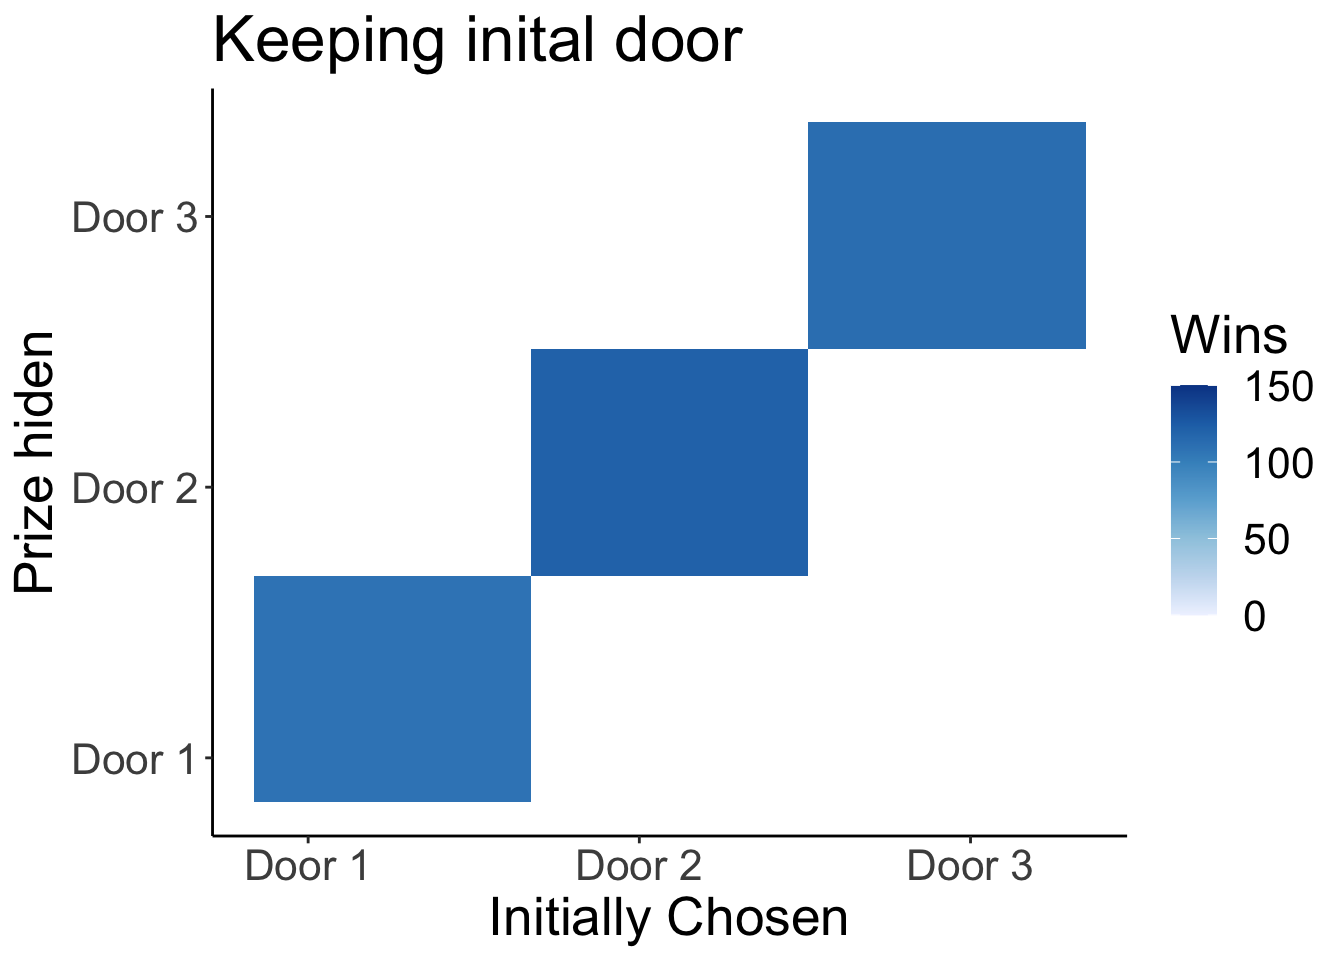
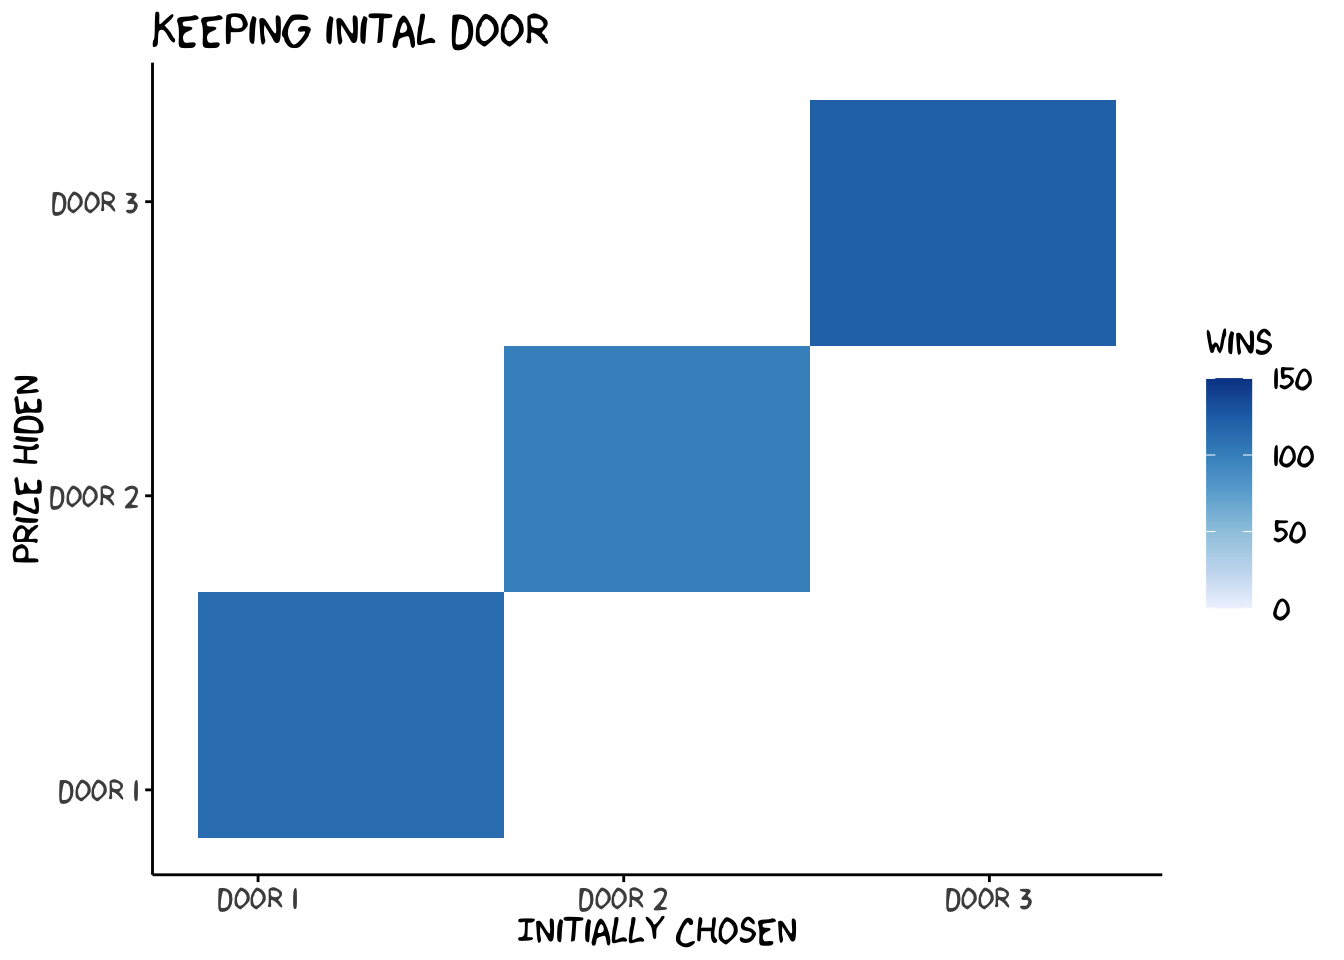
extended monty hall problem

diff --git a/docs/2020/10/05/the-monty-hall-problem/index.html b/docs/2020/10/05/the-monty-hall-problem/index.html
@@ -66,7 +66,7 @@
 
   <article class="article">
     
-    <span class="article-duration">2 min read</span>
+    <span class="article-duration">5 min read</span>
     
 
     <h1 class="article-title">The Monty Hall Problem</h1>
@@ -79,19 +79,28 @@
       
 
 
+<p>I discuss a solution to the Monty Hall Problem discussed in the lecture. There are many ways to think of this problem and a thorugh discussion can be found here: <a href="https://en.wikipedia.org/wiki/Monty_Hall_problem" class="uri">https://en.wikipedia.org/wiki/Monty_Hall_problem</a>.</p>
+<p>Game Rules:</p>
+<ol style="list-style-type: decimal">
+<li><p>Pick a door. One door has a prize behind it, say a car, the other two contain just “goats”. (Some people might prefer a goat over a car, me included. I just stick with the original formulation here, so let’s just say the goat is a symbol for not getting anything and the car a symbol for a prize we actually like to have).</p></li>
+<li><p>As there are two goats, no matter how you choose, there is at least one goat left among the two remaining doors. The host then reveals a goat behind one of the remaining doors. This means that the opened door is out of the game.</p></li>
+<li><p>The host offers you to switch doors. You decide whether you want to switch doors or stay with the one you chose. If you switch doors, there is just one door to choose from as one has been removed from the game at step 2.</p></li>
+</ol>
+<p><strong>What should you do?</strong></p>
+<p>Let us calculate the chances of winning for the two strategies “switching” and “staying”. We use the probabilities in the tree diagrams below. We have one tree diagram to calculate the “switch” strategy’s winning chance, and one for the “stay” strategy:</p>
+<div class="figure">
+<img src="/post/2020-10-05-the-monty-hall-problem_files/MontyHall.jpg" style="width:100.0%" alt="" />
+<p class="caption"><strong>Figure 1</strong>: <em>Probability Tree for Monty Hall Problem</em></p>
+</div>
+<p>The first branches correspond to the “choose initial door” phase. Without any prior information about the doors,the probability that the car is behind the chosen door is 1/3. Now the contestant makes a further choice between switching doors or changing doors.</p>
+<p>Let us look at the diagram for staying (left side of Fig. 1). The probability that the car is behind the door unopened by your host depends on which choice you made originally. If the car is behind the door you chose first, the probability that it is behind the other door is 0. If the door you chose first has a goat behind it, then the car is most definitely behind the other door, and the probability that it is behind the door left unopened by your host is 1. We get for the probability to win the car f we stay:
+<span class="math display">\[P(win,stay) = 1/3 \times 1 + 1/3 \times 0 + 1/3 \times 0=  1/3.\]</span>
+This makes sense, we choose a door randomly and each has the same 1/3 chance of winning. What happens afterwards is not of concern to us as we stick to the originally chosen door. So the only way to win is to chose the right door initially.</p>
+<p>Not let us consider what happens if we switch (right side of Fig. 1). The formal calculations now yields:
+<span class="math display">\[P(win,switch) = 1/3 \times 0 + 1/3 \times 1 + 1/3 \times 1 =  2/3.\]</span>
+This calculation tells us that we would win with a 2/3 probability if we decide to switch. How is that possible? I think it helps to think about this strategy more about a way to force the moderator to give us some crucial information, namely about the location of a bad door. In more technical terms, the sampling space has changed after the opening of the door and it changes differently depending on the first choice of the door. If we choose a goat initially, it is certain that the remaining door is a win, because only one got is left among the two doors. Since it is easier to chose the wrong door initially, we should switch as this would turn a bad - but very likely - initial choice into a good choice.</p>
 <p>Here is some R code to illustrate the outcomes of the two strategies (staying and switching) discussed in the lecture. You can copy and paste this code to play around with it.</p>
-<pre class="r"><code>library(ggplot2)
-library(dplyr)</code></pre>
-<pre><code>## 
-## Attaching package: &#39;dplyr&#39;</code></pre>
-<pre><code>## The following objects are masked from &#39;package:stats&#39;:
-## 
-##     filter, lag</code></pre>
-<pre><code>## The following objects are masked from &#39;package:base&#39;:
-## 
-##     intersect, setdiff, setequal, union</code></pre>
-<pre class="r"><code>library(RColorBrewer)
-# number of runs
+<pre class="r"><code># number of runs
 n = 1000
 all.doors = 1:3
 
@@ -142,16 +151,12 @@ for (i in 1 : n)
   chosen[i] = chosen.door
   winning[i] = winning.door
 
-}
-
-
-print(paste(&quot;The strategy &#39;switch&#39; yielded &quot;, sum(win.switch), &quot; wins.&quot;))</code></pre>
-<pre><code>## [1] &quot;The strategy &#39;switch&#39; yielded  659  wins.&quot;</code></pre>
-<pre class="r"><code>print(paste(&quot;The strategy &#39;stay&#39; yielded &quot;, sum(win.stay), &quot; wins.&quot;))</code></pre>
-<pre><code>## [1] &quot;The strategy &#39;stay&#39; yielded  341  wins.&quot;</code></pre>
+}</code></pre>
+<pre><code>## [1] &quot;The strategy &#39;switch&#39; yielded  671  wins.&quot;</code></pre>
+<pre><code>## [1] &quot;The strategy &#39;stay&#39; yielded  329  wins.&quot;</code></pre>
 <p>We can visualize the outcome by plotting when and how often each strategy leads to winning the prize.</p>
-<p><img src="/ABS1/post/2020-10-05-the-monty-hall-problem_files/figure-html/unnamed-chunk-2-1.png" width="80%" style="display: block; margin: auto;" /><img src="/ABS1/post/2020-10-05-the-monty-hall-problem_files/figure-html/unnamed-chunk-2-2.png" width="80%" style="display: block; margin: auto;" />
-We see two interesting things: (1) “switch” wins exactly when “stay” doesn’t win and (2) switching always wins if you chose the wrong door initially. Thus, staying wins with a probability of 1/3 (choosing the right door out of 3), and switching wins with a probability of 2/3.</p>
+<p><img src="/ABS1/post/2020-10-05-the-monty-hall-problem_files/figure-html/unnamed-chunk-4-1.png" width="80%" style="display: block; margin: auto;" /><img src="/ABS1/post/2020-10-05-the-monty-hall-problem_files/figure-html/unnamed-chunk-4-2.png" width="80%" style="display: block; margin: auto;" /></p>
+<p>We see two interesting things in this figures: (1) “switch” wins exactly when “stay” doesn’t win and (2) switching always wins if you chose the wrong door initially. Thus, staying wins with a probability of 1/3 (choosing the right door out of 3), and switching wins with a probability of 2/3. Exactly as we have calcualted with our decision tree.</p>
 
     </div>
   </article>
@@ -188,6 +193,9 @@ We see two interesting things: (1) “switch” wins exactly when “stay” doe
 
 
     
+<script src="/ABS1/js/math-code.js"></script>
+<script async src="//cdnjs.cloudflare.com/ajax/libs/mathjax/2.7.5/MathJax.js?config=TeX-MML-AM_CHTML"></script>
+
 
     
   </body>

diff --git a/content/post/2020-10-05-the-monty-hall-problem.html b/content/post/2020-10-05-the-monty-hall-problem.html
@@ -9,23 +9,33 @@ tags:
   - Paradox
   - Simulation
   - Probability Theory
+
 ---
 
 
 
+<p>I discuss a solution to the Monty Hall Problem discussed in the lecture. There are many ways to think of this problem and a thorugh discussion can be found here: <a href="https://en.wikipedia.org/wiki/Monty_Hall_problem" class="uri">https://en.wikipedia.org/wiki/Monty_Hall_problem</a>.</p>
+<p>Game Rules:</p>
+<ol style="list-style-type: decimal">
+<li><p>Pick a door. One door has a prize behind it, say a car, the other two contain just “goats”. (Some people might prefer a goat over a car, me included. I just stick with the original formulation here, so let’s just say the goat is a symbol for not getting anything and the car a symbol for a prize we actually like to have).</p></li>
+<li><p>As there are two goats, no matter how you choose, there is at least one goat left among the two remaining doors. The host then reveals a goat behind one of the remaining doors. This means that the opened door is out of the game.</p></li>
+<li><p>The host offers you to switch doors. You decide whether you want to switch doors or stay with the one you chose. If you switch doors, there is just one door to choose from as one has been removed from the game at step 2.</p></li>
+</ol>
+<p><strong>What should you do?</strong></p>
+<p>Let us calculate the chances of winning for the two strategies “switching” and “staying”. We use the probabilities in the tree diagrams below. We have one tree diagram to calculate the “switch” strategy’s winning chance, and one for the “stay” strategy:</p>
+<div class="figure">
+<img src="/post/2020-10-05-the-monty-hall-problem_files/MontyHall.jpg" style="width:100.0%" alt="" />
+<p class="caption"><strong>Figure 1</strong>: <em>Probability Tree for Monty Hall Problem</em></p>
+</div>
+<p>The first branches correspond to the “choose initial door” phase. Without any prior information about the doors,the probability that the car is behind the chosen door is 1/3. Now the contestant makes a further choice between switching doors or changing doors.</p>
+<p>Let us look at the diagram for staying (left side of Fig. 1). The probability that the car is behind the door unopened by your host depends on which choice you made originally. If the car is behind the door you chose first, the probability that it is behind the other door is 0. If the door you chose first has a goat behind it, then the car is most definitely behind the other door, and the probability that it is behind the door left unopened by your host is 1. We get for the probability to win the car f we stay:
+<span class="math display">\[P(win,stay) = 1/3 \times 1 + 1/3 \times 0 + 1/3 \times 0=  1/3.\]</span>
+This makes sense, we choose a door randomly and each has the same 1/3 chance of winning. What happens afterwards is not of concern to us as we stick to the originally chosen door. So the only way to win is to chose the right door initially.</p>
+<p>Not let us consider what happens if we switch (right side of Fig. 1). The formal calculations now yields:
+<span class="math display">\[P(win,switch) = 1/3 \times 0 + 1/3 \times 1 + 1/3 \times 1 =  2/3.\]</span>
+This calculation tells us that we would win with a 2/3 probability if we decide to switch. How is that possible? I think it helps to think about this strategy more about a way to force the moderator to give us some crucial information, namely about the location of a bad door. In more technical terms, the sampling space has changed after the opening of the door and it changes differently depending on the first choice of the door. If we choose a goat initially, it is certain that the remaining door is a win, because only one got is left among the two doors. Since it is easier to chose the wrong door initially, we should switch as this would turn a bad - but very likely - initial choice into a good choice.</p>
 <p>Here is some R code to illustrate the outcomes of the two strategies (staying and switching) discussed in the lecture. You can copy and paste this code to play around with it.</p>
-<pre class="r"><code>library(ggplot2)
-library(dplyr)</code></pre>
-<pre><code>## 
-## Attaching package: &#39;dplyr&#39;</code></pre>
-<pre><code>## The following objects are masked from &#39;package:stats&#39;:
-## 
-##     filter, lag</code></pre>
-<pre><code>## The following objects are masked from &#39;package:base&#39;:
-## 
-##     intersect, setdiff, setequal, union</code></pre>
-<pre class="r"><code>library(RColorBrewer)
-# number of runs
+<pre class="r"><code># number of runs
 n = 1000
 all.doors = 1:3
 
@@ -76,13 +86,9 @@ for (i in 1 : n)
   chosen[i] = chosen.door
   winning[i] = winning.door
 
-}
-
-
-print(paste(&quot;The strategy &#39;switch&#39; yielded &quot;, sum(win.switch), &quot; wins.&quot;))</code></pre>
-<pre><code>## [1] &quot;The strategy &#39;switch&#39; yielded  659  wins.&quot;</code></pre>
-<pre class="r"><code>print(paste(&quot;The strategy &#39;stay&#39; yielded &quot;, sum(win.stay), &quot; wins.&quot;))</code></pre>
-<pre><code>## [1] &quot;The strategy &#39;stay&#39; yielded  341  wins.&quot;</code></pre>
+}</code></pre>
+<pre><code>## [1] &quot;The strategy &#39;switch&#39; yielded  671  wins.&quot;</code></pre>
+<pre><code>## [1] &quot;The strategy &#39;stay&#39; yielded  329  wins.&quot;</code></pre>
 <p>We can visualize the outcome by plotting when and how often each strategy leads to winning the prize.</p>
-<p><img src="/ABS1/post/2020-10-05-the-monty-hall-problem_files/figure-html/unnamed-chunk-2-1.png" width="80%" style="display: block; margin: auto;" /><img src="/ABS1/post/2020-10-05-the-monty-hall-problem_files/figure-html/unnamed-chunk-2-2.png" width="80%" style="display: block; margin: auto;" />
-We see two interesting things: (1) “switch” wins exactly when “stay” doesn’t win and (2) switching always wins if you chose the wrong door initially. Thus, staying wins with a probability of 1/3 (choosing the right door out of 3), and switching wins with a probability of 2/3.</p>
+<p><img src="/ABS1/post/2020-10-05-the-monty-hall-problem_files/figure-html/unnamed-chunk-4-1.png" width="80%" style="display: block; margin: auto;" /><img src="/ABS1/post/2020-10-05-the-monty-hall-problem_files/figure-html/unnamed-chunk-4-2.png" width="80%" style="display: block; margin: auto;" /></p>
+<p>We see two interesting things in this figures: (1) “switch” wins exactly when “stay” doesn’t win and (2) switching always wins if you chose the wrong door initially. Thus, staying wins with a probability of 1/3 (choosing the right door out of 3), and switching wins with a probability of 2/3. Exactly as we have calcualted with our decision tree.</p>

diff --git a/docs/2020/10/01/bayes-theorem-and-conditional-probability/index.html b/docs/2020/10/01/bayes-theorem-and-conditional-probability/index.html
@@ -118,7 +118,10 @@ P[D|T] = \frac{0.95 * 0.01 }{0.1085} \approx 0.09
 <p>So we have 95 true positives but 999 false positives and the proportion of true positive results among all positives results is roughly 95/(95+999) <span class="math inline">\(\approx\)</span> 0.09.</p>
 <p>The key point here is that the disease is rare. So even if there is a small chance for a false positive, we expect them to reach large numbers as most tested people do not have the disease. Conversely, the true positive results will be small, because there are only few people with the disease that can yield true positive results. To illustrate this further, let us plot P[D|T] as function of the prevalence P(D):</p>
 <pre class="r"><code>library(ggplot2)
-pD = seq(0,1,by=0.001)
+library(xkcd)</code></pre>
+<pre><code>## Loading required package: extrafont</code></pre>
+<pre><code>## Registering fonts with R</code></pre>
+<pre class="r"><code>pD = seq(0,1,by=0.001)
 pTgivenD = 0.95
 pTgiven_notD = 0.1
 
@@ -135,7 +138,8 @@ ggplot(dat,aes(x  = pD,y = pDgivenT)) +
   theme_classic() +
   xlab(&quot;P[D]&quot;) + 
   ylab(&quot;P[D|T]&quot;) + 
-  theme(text = element_text(size = 25))  </code></pre>
+  theme(text = element_text(size = 25))   + 
+  theme_xkcd() </code></pre>
 <p><img src="/ABS1/post/2020-10-01-bayes-theorem-and-conditional-probability_files/figure-html/unnamed-chunk-1-1.png" width="80%" style="display: block; margin: auto;" /></p>
 <p>We see that the test’s false positive probability strongly depends on the prevalence. The rarer the disease is, the less reliable the test is in informing you whether you actually have the disease. The specificity also has a strong impact on the interpretation of the test. For instance, for the current Covid-19 PCR tests specificity seems to be closer to 99% than to 90%, then we would get the following:</p>
 <pre class="r"><code>pD = seq(0,1,by=0.001)
@@ -155,7 +159,8 @@ ggplot(dat,aes(x  = pD,y = pDgivenT)) +
   theme_classic()+
   xlab(&quot;P[D]&quot;) + 
   ylab(&quot;P[D|T]&quot;) + 
-  theme(text = element_text(size = 20)) </code></pre>
+  theme(text = element_text(size = 20))  + 
+  theme_xkcd() </code></pre>
 <p><img src="/ABS1/post/2020-10-01-bayes-theorem-and-conditional-probability_files/figure-html/unnamed-chunk-2-1.png" width="80%" style="display: block; margin: auto;" /></p>
 
     </div>

diff --git a/content/post/2020-10-01-bayes-theorem-and-conditional-probability.html b/content/post/2020-10-01-bayes-theorem-and-conditional-probability.html
@@ -48,7 +48,10 @@ P[D|T] = \frac{0.95 * 0.01 }{0.1085} \approx 0.09
 <p>So we have 95 true positives but 999 false positives and the proportion of true positive results among all positives results is roughly 95/(95+999) <span class="math inline">\(\approx\)</span> 0.09.</p>
 <p>The key point here is that the disease is rare. So even if there is a small chance for a false positive, we expect them to reach large numbers as most tested people do not have the disease. Conversely, the true positive results will be small, because there are only few people with the disease that can yield true positive results. To illustrate this further, let us plot P[D|T] as function of the prevalence P(D):</p>
 <pre class="r"><code>library(ggplot2)
-pD = seq(0,1,by=0.001)
+library(xkcd)</code></pre>
+<pre><code>## Loading required package: extrafont</code></pre>
+<pre><code>## Registering fonts with R</code></pre>
+<pre class="r"><code>pD = seq(0,1,by=0.001)
 pTgivenD = 0.95
 pTgiven_notD = 0.1
 
@@ -65,7 +68,8 @@ ggplot(dat,aes(x  = pD,y = pDgivenT)) +
   theme_classic() +
   xlab(&quot;P[D]&quot;) + 
   ylab(&quot;P[D|T]&quot;) + 
-  theme(text = element_text(size = 25))  </code></pre>
+  theme(text = element_text(size = 25))   + 
+  theme_xkcd() </code></pre>
 <p><img src="/ABS1/post/2020-10-01-bayes-theorem-and-conditional-probability_files/figure-html/unnamed-chunk-1-1.png" width="80%" style="display: block; margin: auto;" /></p>
 <p>We see that the test’s false positive probability strongly depends on the prevalence. The rarer the disease is, the less reliable the test is in informing you whether you actually have the disease. The specificity also has a strong impact on the interpretation of the test. For instance, for the current Covid-19 PCR tests specificity seems to be closer to 99% than to 90%, then we would get the following:</p>
 <pre class="r"><code>pD = seq(0,1,by=0.001)
@@ -85,5 +89,6 @@ ggplot(dat,aes(x  = pD,y = pDgivenT)) +
   theme_classic()+
   xlab(&quot;P[D]&quot;) + 
   ylab(&quot;P[D|T]&quot;) + 
-  theme(text = element_text(size = 20)) </code></pre>
+  theme(text = element_text(size = 20))  + 
+  theme_xkcd() </code></pre>
 <p><img src="/ABS1/post/2020-10-01-bayes-theorem-and-conditional-probability_files/figure-html/unnamed-chunk-2-1.png" width="80%" style="display: block; margin: auto;" /></p>

diff --git a/docs/2020/10/05/binomial-distribution/index.html b/docs/2020/10/05/binomial-distribution/index.html
@@ -114,7 +114,10 @@ P( H = k) = {n\choose k} (1/2)^n
 <span class="math display">\[P(H = k) = {n\choose k} \pi^k (1-\pi)^{n-k}\]</span></p>
 <p>In R we can get this distribution very easily in the following way:</p>
 <pre class="r"><code>library(ggplot2)
-# plot the distribution
+library(xkcd)</code></pre>
+<pre><code>## Loading required package: extrafont</code></pre>
+<pre><code>## Registering fonts with R</code></pre>
+<pre class="r"><code># plot the distribution
 
 pi = 0.5
 n = 10
@@ -127,7 +130,8 @@ dat = data.frame(k = k,dist = bin.dist)
 ggplot(dat,aes(x = k,y= dist)) + 
   geom_point() +
   theme_classic() + 
-  theme(text = element_text(size = 20)) </code></pre>
+  theme(text = element_text(size = 20))  + 
+  theme_xkcd() </code></pre>
 <p><img src="/ABS1/post/2020-10-05-binomial-distribution_files/figure-html/unnamed-chunk-1-1.png" width="80%" style="display: block; margin: auto;" /></p>
 <p>If we want to draw a random sample from a distribution, we can also do this in R:</p>
 <pre class="r"><code>pi = 0.5
@@ -136,7 +140,7 @@ n = 10
 
 random.sample = rbinom(1,n,pi)
 print(random.sample)</code></pre>
-<pre><code>## [1] 3</code></pre>
+<pre><code>## [1] 7</code></pre>
 
     </div>
   </article>

diff --git a/content/post/2020-10-05-binomial-distribution.html b/content/post/2020-10-05-binomial-distribution.html
@@ -46,7 +46,10 @@ P( H = k) = {n\choose k} (1/2)^n
 <span class="math display">\[P(H = k) = {n\choose k} \pi^k (1-\pi)^{n-k}\]</span></p>
 <p>In R we can get this distribution very easily in the following way:</p>
 <pre class="r"><code>library(ggplot2)
-# plot the distribution
+library(xkcd)</code></pre>
+<pre><code>## Loading required package: extrafont</code></pre>
+<pre><code>## Registering fonts with R</code></pre>
+<pre class="r"><code># plot the distribution
 
 pi = 0.5
 n = 10
@@ -59,7 +62,8 @@ dat = data.frame(k = k,dist = bin.dist)
 ggplot(dat,aes(x = k,y= dist)) + 
   geom_point() +
   theme_classic() + 
-  theme(text = element_text(size = 20)) </code></pre>
+  theme(text = element_text(size = 20))  + 
+  theme_xkcd() </code></pre>
 <p><img src="/ABS1/post/2020-10-05-binomial-distribution_files/figure-html/unnamed-chunk-1-1.png" width="80%" style="display: block; margin: auto;" /></p>
 <p>If we want to draw a random sample from a distribution, we can also do this in R:</p>
 <pre class="r"><code>pi = 0.5
@@ -68,4 +72,4 @@ n = 10
 
 random.sample = rbinom(1,n,pi)
 print(random.sample)</code></pre>
-<pre><code>## [1] 3</code></pre>
+<pre><code>## [1] 7</code></pre>
